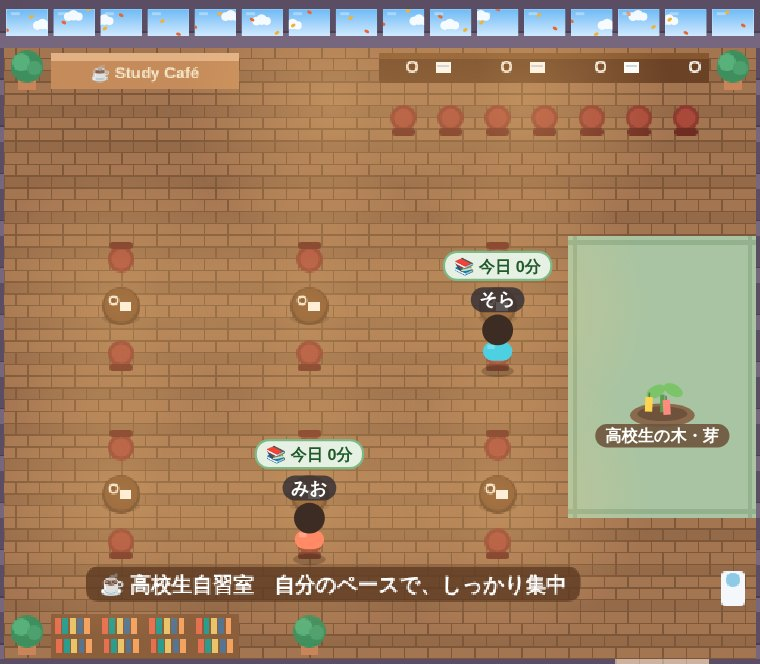
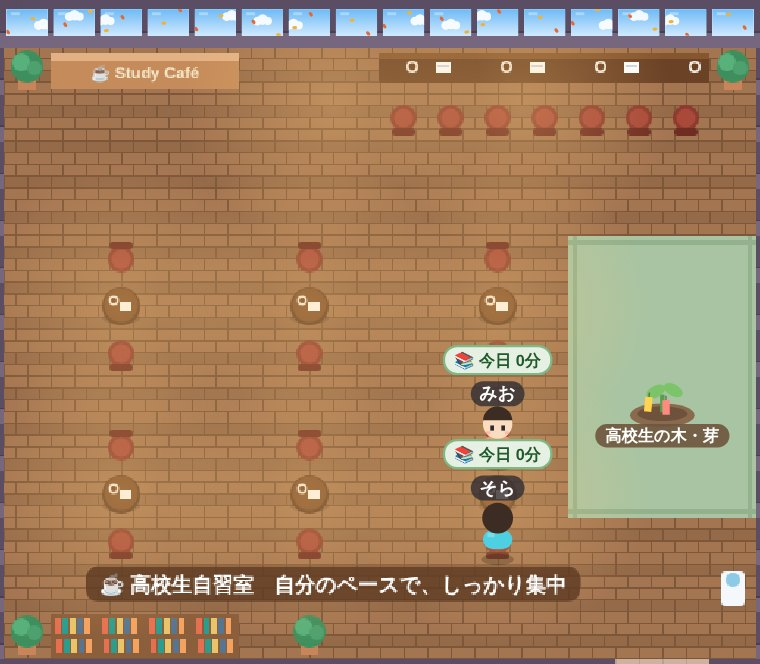
高校生向けの攻略本（A4・1枚）を追加。高校生の「今日やること」の説明文を直す
Claude-Session: https://claude.ai/code/session_01CVag5cjWZ1Y2GSPw9UHpsB

diff --git a/metaverse/docs/print/hs.html b/metaverse/docs/print/hs.html
@@ -1,0 +1,110 @@
+<!doctype html>
+<html lang="ja">
+<head>
+<meta charset="utf-8">
+<title>高校生 攻略本</title>
+<link rel="stylesheet" href="https://fonts.googleapis.com/css2?family=Zen+Maru+Gothic:wght@500;700;900&display=swap">
+<style>
+  @page { size: A4; margin: 0; }
+  :root { --ink: #2b1f17; --muted: #6e5d50; --blue: #8a5a3c; --teal: #c0874f; --green: #3f8f5e; --orange: #d9782d; --red: #c0392b; --gold: #e6b450; --navy: #4a3020; }
+  * { box-sizing: border-box; }
+  html, body { margin: 0; }
+  body { font-family: 'Zen Maru Gothic', sans-serif; color: var(--ink); font-weight: 700; -webkit-print-color-adjust: exact; print-color-adjust: exact; }
+  .page { width: 210mm; height: 297mm; padding: 6mm 8mm; position: relative; overflow: hidden; display: flex; flex-direction: column; gap: 1.8mm; background: #f8f1e7; }
+  .page::before { content: ''; position: absolute; inset: 0; background-image: linear-gradient(rgba(138,90,60,.08) 1px, transparent 1px), linear-gradient(90deg, rgba(138,90,60,.08) 1px, transparent 1px); background-size: 6mm 6mm; z-index: 0; }
+  .page > * { position: relative; z-index: 1; flex-shrink: 0; }
+  .top { display: grid; grid-template-columns: 1fr 62mm; gap: 3mm; align-items: stretch; }
+  .title { background: linear-gradient(135deg, #3b2416, #6b4226 55%, #a8703f); color: #fff; border-radius: 5mm; padding: 3.4mm 5mm; box-shadow: 0 1.2mm 0 #2a170c; position: relative; overflow: hidden; }
+  .title::after { content: 'STUDY CAFÉ'; position: absolute; right: 3mm; bottom: 1.5mm; font-size: 9mm; font-weight: 900; color: rgba(255,255,255,.12); letter-spacing: .5mm; }
+  .title small { display: inline-block; background: var(--gold); color: #3a2a00; border-radius: 4mm; padding: .5mm 3mm; font-size: 3.6mm; font-weight: 900; }
+  .title h1 { margin: 1.2mm 0 .6mm; font-size: 10mm; font-weight: 900; line-height: 1.12; }
+  .title p { margin: 0; font-size: 3.7mm; line-height: 1.5; }
+  .shot { border-radius: 3.5mm; overflow: hidden; border: .9mm solid #fff; box-shadow: 0 .8mm 2.2mm rgba(20,40,70,.25); background: #fff; }
+  .shot img { display: block; width: 100%; height: 100%; object-fit: cover; }
+  .sec { display: flex; align-items: center; gap: 2mm; font-size: 5mm; font-weight: 900; color: var(--navy); margin-top: .4mm; }
+  .sec .tag { background: var(--navy); color: #fff; font-size: 3mm; border-radius: 2mm; padding: .4mm 2mm; letter-spacing: .3mm; }
+  .sec::after { content: ''; flex: 1; height: .9mm; border-radius: 1mm; background: linear-gradient(90deg, var(--blue), var(--teal), transparent); }
+  .steps { display: grid; grid-template-columns: repeat(5, 1fr); gap: 1.6mm; }
+  .step { background: #fff; border: .7mm solid #e2c9a6; border-radius: 3.5mm; padding: 1.2mm 1.4mm; text-align: center; position: relative; }
+  .step .n { position: absolute; top: -2.2mm; left: -1.4mm; width: 6mm; height: 6mm; border-radius: 50%; background: var(--blue); color: #fff; font-size: 3.4mm; display: grid; place-items: center; font-weight: 900; }
+  .step .ic { font-size: 5.4mm; line-height: 1.1; }
+  .step b { display: block; font-size: 3.7mm; font-weight: 900; }
+  .step span { font-size: 2.9mm; color: var(--muted); line-height: 1.35; display: block; }
+  .grid3 { display: grid; grid-template-columns: repeat(3, 1fr); gap: 2.2mm; }
+  .card { background: #fff; border-radius: 4mm; padding: 1.8mm 2.6mm; border-left: 2mm solid; box-shadow: 0 .5mm 1.4mm rgba(20,40,70,.1); display: flex; flex-direction: column; gap: 1mm; }
+  .card h2 { margin: 0; font-size: 4.3mm; font-weight: 900; }
+  .card p { margin: 0; font-size: 3.05mm; line-height: 1.4; }
+  .card .shot { height: 17mm; }
+  .card b.hl { color: var(--red); }
+  table.t { width: 100%; border-collapse: collapse; font-size: 3mm; margin-top: .4mm; }
+  table.t td, table.t th { border-bottom: .3mm solid #efe3d3; padding: .5mm 1mm; text-align: left; }
+  table.t th { background: #f6ebdc; font-weight: 900; }
+  .quests { background: #fff; border-radius: 4mm; overflow: hidden; border: .8mm solid #e2c9a6; }
+  .quests table { width: 100%; border-collapse: collapse; font-size: 3.05mm; }
+  .quests th { background: var(--navy); color: #fff; padding: 1.2mm 2mm; text-align: left; font-weight: 900; }
+  .quests td { padding: .8mm 2mm; border-top: .3mm solid #efe3d3; line-height: 1.35; vertical-align: top; }
+  .quests td b { color: var(--blue); }
+  .quests tr.s td:first-child { font-weight: 900; white-space: nowrap; }
+  .qnote { margin: 0; font-size: 3mm; color: var(--muted); }
+  .rules { display: grid; grid-template-columns: repeat(4, 1fr); gap: 1.6mm; }
+  .rule { background: #fff; border: .7mm dashed #c9a27a; border-radius: 3.5mm; padding: 1.3mm 2mm; font-size: 2.95mm; line-height: 1.4; }
+  .goal { background: linear-gradient(135deg, #6b4226, #c0874f); color: #fff; border-radius: 4mm; padding: 1.8mm 4mm; text-align: center; font-size: 4.4mm; font-weight: 900; box-shadow: 0 1mm 0 #4a2c18; }
+</style>
+</head>
+<body>
+<section class="page">
+  <div class="top">
+    <div class="title">
+      <small>☕ 高校生のための</small>
+      <h1>三浦塾オンライン<br>攻略本</h1>
+      <p>自分のペースで、しっかり積み上げる。<br>高校生専用のカフェ風自習室で、受験までの毎日をデザインしよう。</p>
+    </div>
+    <div class="shot"><img src="guide2/room_cafe.jpg" alt="" style="object-position:center 40%"></div>
+  </div>
+
+  <div class="sec"><span class="tag">STEP</span>入室のしかた</div>
+  <div class="steps">
+    <div class="step"><span class="n">1</span><div class="ic">📱</div><b>ログイン</b><span>IDとパスワード（ブラウザでOK）</span></div>
+    <div class="step"><span class="n">2</span><div class="ic">📸</div><b>今日のページ</b><span>問題集・ノートを開いて撮影（1日1回）</span></div>
+    <div class="step"><span class="n">3</span><div class="ic">☕</div><b>高校生自習室へ</b><span>「🏫 へや」で移動</span></div>
+    <div class="step"><span class="n">4</span><div class="ic">📝</div><b>今日やること</b><span>3つ書くと、頭の上に出る</span></div>
+    <div class="step"><span class="n">5</span><div class="ic">🪑</div><b>勉強スタート</b><span>席にすわると時間を記録</span></div>
+  </div>
+
+  <div class="sec"><span class="tag">SYSTEM</span>高校生だけのしくみ</div>
+  <div class="grid3">
+    <div class="card" style="border-color:var(--gold)"><h2>🏅 週のメダル</h2><p>月〜日の<b>合計</b>で決まる。何日に分けてもOK。</p>
+      <table class="t"><tr><th>🥉 4時間</th><th>🥈 6時間</th><th>🥇 9時間</th></tr><tr><td>＋10pt</td><td>＋20pt</td><td><b class="hl">＋30pt</b></td></tr></table>
+      <p>🔥は<b>🥉以上の週</b>が続いた数（例：🔥8週）。部活で忙しい週も4時間で守れる。</p></div>
+    <div class="card" style="border-color:var(--orange)"><h2>📝 今日やること</h2><p>入ったら3つ書いてスタート。<b>頭の上に表示</b>されるから、何をやるかがはっきりする。</p><div class="shot"><img src="guide2/hs_plan.jpg" alt="" style="object-position:center 20%"></div></div>
+    <div class="card" style="border-color:var(--red)"><h2>🎓 称号</h2><p>勉強時間の合計で、名前の前に称号がつく。</p>
+      <table class="t"><tr><td>20時間</td><td>【がんばり屋】</td></tr><tr><td>50時間</td><td>【努力家】</td></tr><tr><td>100時間</td><td>【鉄人】</td></tr><tr><td>200・300・500時間</td><td>【勉強の達人】【受験の覇者】【伝説の受験生】</td></tr></table></div>
+    <div class="card" style="border-color:var(--teal)"><h2>🎁 ポイント</h2><p><b>16:00〜23:00</b>は<b>10分で1ポイント</b>（1日6時間まで）。時間帯の外も「今日○分」には入る。週のメダルのボーナスもポイントに。全アイテム交換OK。</p></div>
+    <div class="card" style="border-color:var(--green)"><h2>👋 ようこそ</h2><p>高校生自習室に入ってきた子に👋😊💪✨を送れる（<b>すわっていなくてOK</b>）。同じ相手に<b>1日1回</b>、もらったら1回返せる。中学生・高校生に見える。</p></div>
+    <div class="card" style="border-color:var(--blue)"><h2>🌳 高校生の木・⭐ マイ席</h2><p>高校生の勉強時間で<b>高校生の木</b>が育ち、目標は<b>短冊</b>に。🔥が<b>4週</b>続くと、窓ぎわのカウンターなど好きな席を<b>マイ席</b>にできる。</p></div>
+  </div>
+
+  <div class="sec"><span class="tag">QUEST</span>季節のクエスト（1日の最低時間をこえた日を数える）</div>
+  <div class="quests">
+    <table>
+      <tr><th style="width:24%">クエスト</th><th style="width:20%">期間</th><th>クリア（15日）すると</th></tr>
+      <tr class="s"><td>🎋 1学期中間</td><td><b>5/1〜5/31</b></td><td>織姫と彦星から手紙＋🎋笹かざり（その場で「今すぐつける」）</td></tr>
+      <tr class="s"><td>🎋 1学期期末</td><td><b>6/1〜6/30</b></td><td><b>7/1〜7/20</b> 彦星がついて歩く。両方クリアで<b>織姫</b>も。<b>7/7</b>は天の川</td></tr>
+      <tr class="s"><td>🎅 2学期中間</td><td><b>10/1〜10/31</b></td><td>サンタから手紙＋🎅サンタ帽</td></tr>
+      <tr class="s"><td>🎅 2学期期末</td><td><b>11/1〜11/30</b></td><td><b>12/1〜12/25</b> サンタがついて歩く。両方クリアで<b>トナカイ</b>も。<b>12/25</b>は雪とプレゼント</td></tr>
+      <tr class="s"><td>🎎 3学期学年末</td><td><b>1/20〜2/28</b></td><td><b>3/1〜3/20</b> ひな人形の行列（15日／20日で三人官女／25日で五人囃子）。<b>3/3</b>はひなあられ</td></tr>
+    </table>
+  </div>
+  <p class="qnote">💡 画面の左上に「今週 4:50 🥉・🥈まであと1:10」と、クエストの「○/15日」が出るよ。</p>
+
+  <div class="sec"><span class="tag">RULE</span>高校生自習室のルール</div>
+  <div class="rules">
+    <div class="rule">🤫 自分のペースで<b>しっかり集中</b>。生徒どうしの吹き出しは先生と話すときだけ。</div>
+    <div class="rule">📷 <b>見守りカメラ</b>：ランダムな時間に写真が<b>先生だけ</b>に届く。保存はしない。</div>
+    <div class="rule">⏰ 来る曜日・時刻を決めた人は、遅れると<b>先生にお知らせ</b>が届く。</div>
+    <div class="rule">📱 アプリを閉じると<b>時間が止まる</b>。長時間は充電しながら。</div>
+  </div>
+  <div class="goal">🎓 受験は、毎日の積み重ねの合計。今日の「やること3つ」から始めよう！</div>
+</section>
+</body>
+</html>

diff --git a/metaverse/public/app.html b/metaverse/public/app.html
@@ -132,7 +132,7 @@
   <dialog id="plan-dialog" class="plan-card">
     <form class="dialog-body" id="plan-form">
       <h2>☕ 今日やること</h2>
-      <p class="muted">今日の3時間でやることを3つ書いてから始めよう。頭の上に表示されます。</p>
+      <p class="muted">今日やることを3つ書いてから始めよう。頭の上に表示されます。</p>
       <label class="field">①<input id="plan-1" maxlength="16" placeholder="例：数学 青チャート p.40〜" autocomplete="off" required></label>
       <label class="field">②<input id="plan-2" maxlength="16" placeholder="例：英単語 100こ" autocomplete="off" required></label>
       <label class="field">③<input id="plan-3" maxlength="16" placeholder="例：古文の予習" autocomplete="off" required></label>

diff --git a/metaverse/public/sw.js b/metaverse/public/sw.js
@@ -1,5 +1,5 @@
 // オフライン時の表示用キャッシュ。API は常にネットワークから取得し、保存しない。
-const CACHE = 'juku-v70';
+const CACHE = 'juku-v71';
 const ASSETS = [
   '/', '/app', '/admin', '/css/common.css', '/css/login.css', '/css/app.css', '/css/admin.css',
   '/js/api.js', '/js/login.js', '/js/app.js', '/js/render.js', '/js/admin.js', '/js/classcall.js', '/js/privatecall.js', '/js/studycam.js', '/js/ganbari.js', '/js/study-detail.js', '/shared/map.js',
